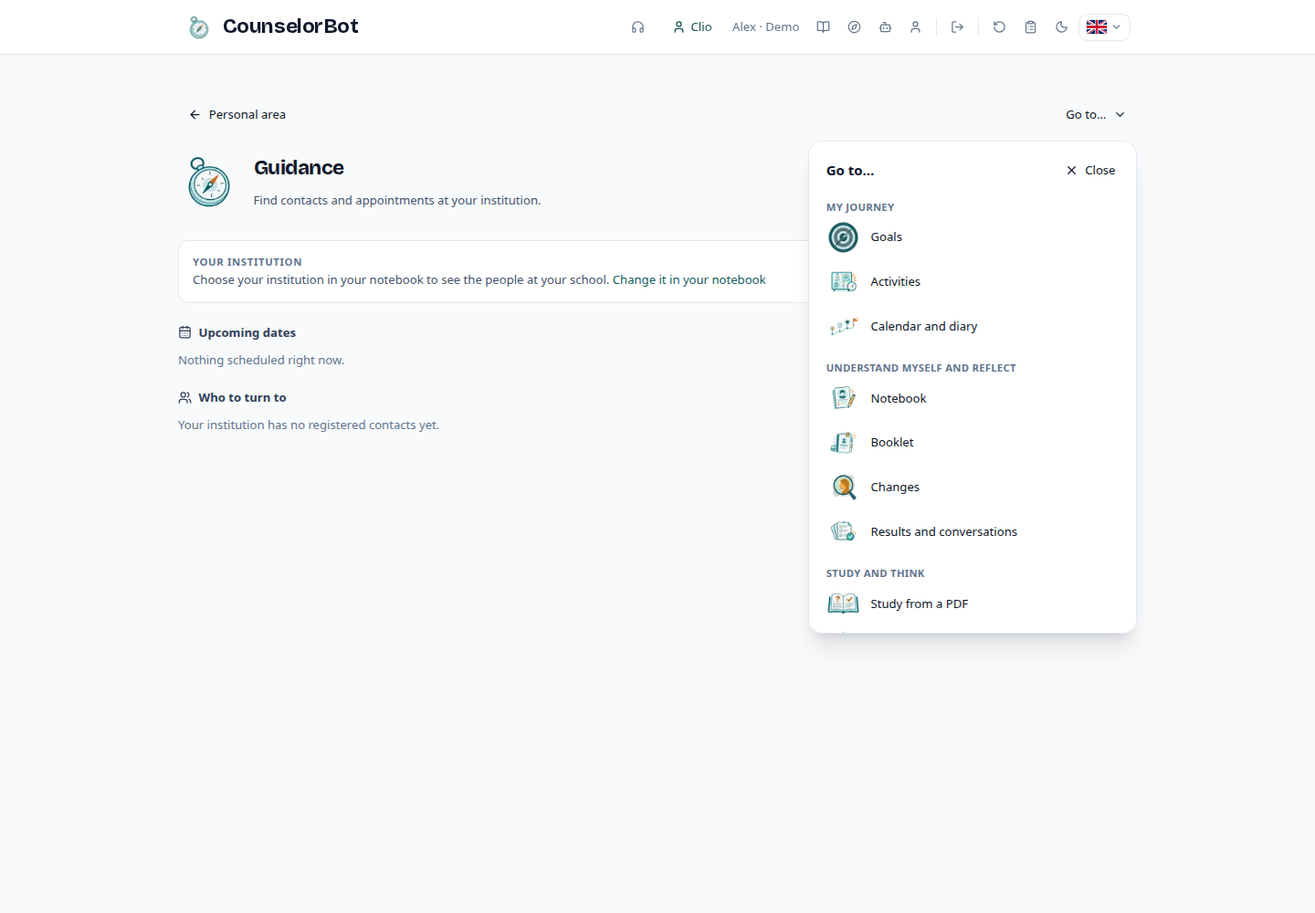
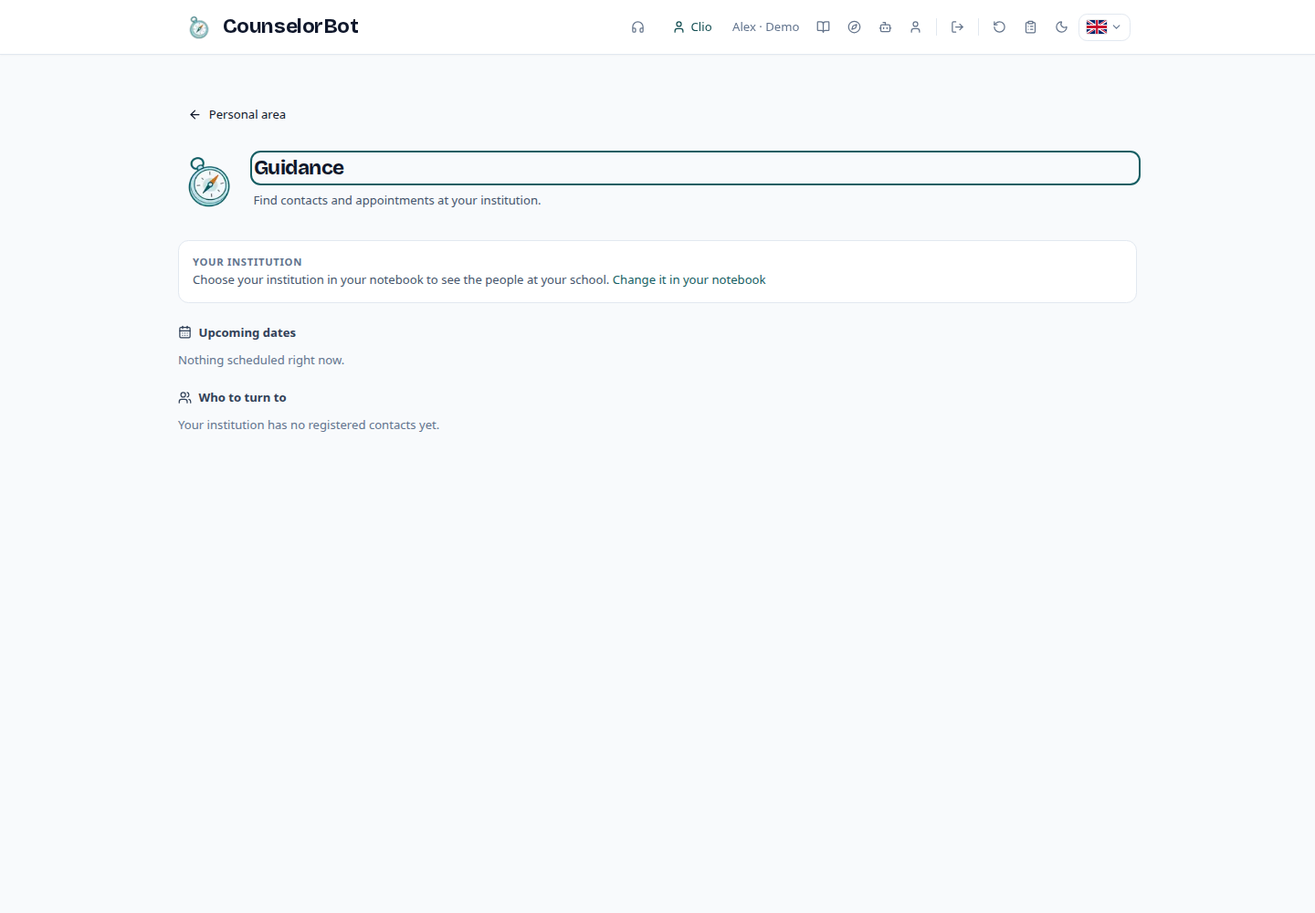
fix: simplify orientation header to left return link

diff --git a/frontend/src/lib/i18n.ts b/frontend/src/lib/i18n.ts
@@ -1265,7 +1265,7 @@ const it: Dict = {
     'guide.section11.title': "Evento significativo professionale",
     'guide.section11.body': "Scegli questo strumento per riflettere su un episodio di lavoro o tirocinio: un compito, una riunione, un colloquio o una lezione che hai tenuto. È adatto anche ad adulti e docenti che rileggono la propria pratica. Segue gli stessi sei passi del percorso di studio, senza questionari, punteggi o diagnosi. La sintesi è una bozza da rivedere e salvare nel Libretto. Questi due percorsi sono distinti dagli eventi che inserisci nel calendario.",
     'guide.section12.title': "Area personale e obiettivi",
-    'guide.section12.body': "L’Area personale mostra fino a tre lavori da riprendere, quando presenti. Seguono cinque gruppi sempre aperti: Il mio percorso, Conoscermi e riflettere, Studiare e ragionare, I miei lavori, Persone e supporto. I 17 collegamenti hanno immagini, nomi e descrizioni: due colonne su desktop, una su telefono. In “Obiettivi” puoi scriverne uno tuo oppure adottare e personalizzare una proposta del catalogo. Collega attività, tappe, carte, confronto, Taccuino, Libretto, Tavoli salvati e lavori del Portfolio. Carte e confronto aiutano a esplorare idee e alternative; il Tavolo raccoglie materiali e lavoro. Completare un’attività non conclude automaticamente un obiettivo: sei tu a rivedere i progressi. Puoi anche studiare da un PDF con domande e feedback (pQBL) e ripassare con le Flashcard. In Orientamento, “Area personale” torna sempre all’ingresso; “Vai a…” apre i cinque gruppi con immagini e nomi. La pagina attuale è indicata e non viene riaperta.",
+    'guide.section12.body': "L’Area personale mostra fino a tre lavori da riprendere, quando presenti. Seguono cinque gruppi sempre aperti: Il mio percorso, Conoscermi e riflettere, Studiare e ragionare, I miei lavori, Persone e supporto. I 17 collegamenti hanno immagini, nomi e descrizioni: due colonne su desktop, una su telefono. In “Obiettivi” puoi scriverne uno tuo oppure adottare e personalizzare una proposta del catalogo. Collega attività, tappe, carte, confronto, Taccuino, Libretto, Tavoli salvati e lavori del Portfolio. Carte e confronto aiutano a esplorare idee e alternative; il Tavolo raccoglie materiali e lavoro. Completare un’attività non conclude automaticamente un obiettivo: sei tu a rivedere i progressi. Puoi anche studiare da un PDF con domande e feedback (pQBL) e ripassare con le Flashcard. In Orientamento, il collegamento “Area personale” a sinistra torna sempre all’ingresso, dove trovi tutti gli strumenti.",
     'guide.section13.title': "Attività, calendario e diario",
     'guide.section13.body': "Nell’Area personale, apri calendario e diario per pianificare un’attività o una tappa, su una data o un periodo, e raccontare poi che cosa è successo. Il piano e la riflessione restano distinti. Le attività create dagli obiettivi o dalle assegnazioni usano questo stesso spazio. Salva esplicitamente le modifiche; il passare di una data non segna un’attività come conclusa. Puoi collegare e documentare il lavoro senza trasferire automaticamente le annotazioni.",
     'guide.section14.title': "Assegnazioni e restituzioni",
@@ -2561,7 +2561,7 @@ const en: Dict = {
     'guide.section11.title': "Significant professional event",
     'guide.section11.body': "Choose this tool to reflect on one work or placement episode: a task, meeting, conversation or lesson you taught. It also suits adults and teachers reflecting on their practice. It follows the same six steps as the study path, without questionnaires, scores or diagnoses. The summary is a draft to review and save in the Booklet. These two paths are distinct from events you add to your calendar.",
     'guide.section12.title': "Personal area and goals",
-    'guide.section12.body': "The Personal area shows up to three items to continue, when available. Five groups follow: My journey, Understand myself and reflect, Study and think, My work, People and support. All groups stay open. The 17 links have images, names and descriptions, in two columns on desktop and one on phones. In “Goals”, write your own or adopt and personalize a catalog proposal. Link activities, milestones, cards, comparison, Notebook, Booklet, saved Tavoli and Portfolio works. Cards and comparison help explore ideas and alternatives; Tavolo brings together materials and work. Completing an activity does not automatically conclude a goal: you review your progress. You can also study from a PDF with questions and feedback (pQBL) and review with Flashcards. In Guidance, “Personal area” always returns to the entry page; “Go to…” opens the five groups with images and names. The current page is marked and is not reopened.",
+    'guide.section12.body': "The Personal area shows up to three items to continue, when available. Five groups follow: My journey, Understand myself and reflect, Study and think, My work, People and support. All groups stay open. The 17 links have images, names and descriptions, in two columns on desktop and one on phones. In “Goals”, write your own or adopt and personalize a catalog proposal. Link activities, milestones, cards, comparison, Notebook, Booklet, saved Tavoli and Portfolio works. Cards and comparison help explore ideas and alternatives; Tavolo brings together materials and work. Completing an activity does not automatically conclude a goal: you review your progress. You can also study from a PDF with questions and feedback (pQBL) and review with Flashcards. In Guidance, the “Personal area” link on the left always returns to the entry page, where you can find all the tools.",
     'guide.section13.title': "Activities, calendar and diary",
     'guide.section13.body': "In the Personal area, open the calendar and diary to plan an activity or milestone on a date or over a period, then describe what happened. The plan and reflection remain distinct. Activities created from goals or assignments use this same workspace. Save changes explicitly; a date passing does not mark an activity complete. You can link and document your work without automatically transferring notes.",
     'guide.section14.title': "Assignments and responses",
@@ -3856,7 +3856,7 @@ const es: Dict = {
     'guide.section11.title': "Evento significativo profesional",
     'guide.section11.body': "Elige esta herramienta para reflexionar sobre un episodio de trabajo o prácticas: una tarea, una reunión, una conversación o una clase que impartiste. También sirve a adultos y docentes que revisan su práctica. Sigue los mismos seis pasos del recorrido de estudio, sin cuestionarios, puntuaciones ni diagnósticos. La síntesis es un borrador para revisar y guardar en el Cuadernillo. Estos dos recorridos son distintos de los eventos que añades al calendario.",
     'guide.section12.title': "Área personal y objetivos",
-    'guide.section12.body': "El Área personal muestra hasta tres trabajos para continuar, cuando los hay. Siguen cinco grupos siempre abiertos: Mi recorrido, Conocerme y reflexionar, Estudiar y razonar, Mis trabajos, Personas y apoyo. Los 17 enlaces tienen imágenes, nombres y descripciones: dos columnas en ordenador y una en móvil. En “Objetivos” puedes escribir uno propio o adoptar y personalizar una propuesta del catálogo. Vincula actividades, hitos, tarjetas, comparación, Cuaderno, Cuadernillo, Tavoli guardados y trabajos del Portfolio. Las tarjetas y la comparación ayudan a explorar ideas y alternativas; Tavolo reúne materiales y trabajo. Completar una actividad no concluye automáticamente un objetivo: tú revisas los progresos. También puedes estudiar con un PDF mediante preguntas y comentarios (pQBL) y repasar con tarjetas. En Orientación, “Área personal” vuelve siempre a la entrada; “Ir a…” abre los cinco grupos con imágenes y nombres. La página actual está indicada y no se vuelve a abrir.",
+    'guide.section12.body': "El Área personal muestra hasta tres trabajos para continuar, cuando los hay. Siguen cinco grupos siempre abiertos: Mi recorrido, Conocerme y reflexionar, Estudiar y razonar, Mis trabajos, Personas y apoyo. Los 17 enlaces tienen imágenes, nombres y descripciones: dos columnas en ordenador y una en móvil. En “Objetivos” puedes escribir uno propio o adoptar y personalizar una propuesta del catálogo. Vincula actividades, hitos, tarjetas, comparación, Cuaderno, Cuadernillo, Tavoli guardados y trabajos del Portfolio. Las tarjetas y la comparación ayudan a explorar ideas y alternativas; Tavolo reúne materiales y trabajo. Completar una actividad no concluye automáticamente un objetivo: tú revisas los progresos. También puedes estudiar con un PDF mediante preguntas y comentarios (pQBL) y repasar con tarjetas. En Orientación, el enlace “Área personal” de la izquierda vuelve siempre a la entrada, donde están todas las herramientas.",
     'guide.section13.title': "Actividades, calendario y diario",
     'guide.section13.body': "En el Área personal, abre el calendario y diario para planificar una actividad o un hito en una fecha o un período y después contar qué sucedió. El plan y la reflexión permanecen separados. Las actividades creadas desde objetivos o asignaciones usan este mismo espacio. Guarda los cambios explícitamente; el paso de una fecha no marca una actividad como terminada. Puedes vincular y documentar el trabajo sin transferir automáticamente las notas.",
     'guide.section14.title': "Asignaciones y respuestas",
@@ -5151,7 +5151,7 @@ const fr: Dict = {
     'guide.section11.title': "Événement professionnel significatif",
     'guide.section11.body': "Choisis cet outil pour réfléchir à un épisode de travail ou de stage : une tâche, une réunion, un échange ou un cours que tu as donné. Il convient aussi aux adultes et aux enseignants qui réfléchissent à leur pratique. Il suit les six étapes du parcours d’étude, sans questionnaire, score ni diagnostic. La synthèse est un brouillon à relire et à enregistrer dans le Livret. Ces deux parcours sont distincts des événements ajoutés au calendrier.",
     'guide.section12.title': "Espace personnel et objectifs",
-    'guide.section12.body': "L’Espace personnel affiche jusqu’à trois travaux à reprendre, lorsqu’il y en a. Cinq groupes restent ouverts : Mon parcours, Me connaître et réfléchir, Étudier et raisonner, Mes travaux, Personnes et accompagnement. Les 17 liens ont une image, un nom et une description : deux colonnes sur ordinateur, une sur téléphone. Dans « Objectifs », écris le tien ou adopte et personnalise une proposition du catalogue. Relie activités, étapes, cartes, comparaison, Carnet, Livret, Tavoli enregistrés et travaux du Portfolio. Les cartes et la comparaison aident à explorer idées et options ; Tavolo rassemble matériaux et travail. Terminer une activité ne conclut pas automatiquement un objectif : tu examines tes progrès. Tu peux aussi étudier à partir d’un PDF avec des questions et des retours (pQBL), puis réviser avec des fiches. Dans Orientation, « Espace personnel » revient toujours à l’entrée ; « Aller à… » ouvre les cinq groupes avec images et noms. La page actuelle est signalée et ne se rouvre pas.",
+    'guide.section12.body': "L’Espace personnel affiche jusqu’à trois travaux à reprendre, lorsqu’il y en a. Cinq groupes restent ouverts : Mon parcours, Me connaître et réfléchir, Étudier et raisonner, Mes travaux, Personnes et accompagnement. Les 17 liens ont une image, un nom et une description : deux colonnes sur ordinateur, une sur téléphone. Dans « Objectifs », écris le tien ou adopte et personnalise une proposition du catalogue. Relie activités, étapes, cartes, comparaison, Carnet, Livret, Tavoli enregistrés et travaux du Portfolio. Les cartes et la comparaison aident à explorer idées et options ; Tavolo rassemble matériaux et travail. Terminer une activité ne conclut pas automatiquement un objectif : tu examines tes progrès. Tu peux aussi étudier à partir d’un PDF avec des questions et des retours (pQBL), puis réviser avec des fiches. Dans Orientation, le lien « Espace personnel » à gauche revient toujours à l’entrée, où se trouvent tous les outils.",
     'guide.section13.title': "Activités, calendrier et journal",
     'guide.section13.body': "Dans l’Espace personnel, ouvre le calendrier et le journal pour planifier une activité ou une étape à une date ou sur une période, puis raconter ce qui s’est passé. Le projet et la réflexion restent distincts. Les activités créées depuis les objectifs ou les attributions utilisent ce même espace. Enregistre explicitement tes modifications ; une date dépassée ne marque pas une activité comme terminée. Tu peux relier et documenter le travail sans transférer automatiquement les notes.",
     'guide.section14.title': "Activités attribuées et réponses",
@@ -6446,7 +6446,7 @@ const de: Dict = {
     'guide.section11.title': "Bedeutsames berufliches Ereignis",
     'guide.section11.body': "Wähle dieses Werkzeug, um eine Arbeits- oder Praktikumssituation zu reflektieren: eine Aufgabe, Besprechung, ein Gespräch oder eine selbst gehaltene Unterrichtsstunde. Es eignet sich auch für Erwachsene und Lehrkräfte, die ihre Praxis reflektieren. Es folgt denselben sechs Schritten wie der Lernweg, ohne Fragebögen, Punktwerte oder Diagnosen. Die Zusammenfassung ist ein Entwurf zum Prüfen und Speichern im Arbeitsheft. Diese beiden Wege unterscheiden sich von den Ereignissen, die du im Kalender einträgst.",
     'guide.section12.title': "Persönlicher Bereich und Ziele",
-    'guide.section12.body': "Der persönliche Bereich zeigt bis zu drei Arbeiten zum Fortsetzen an, sofern vorhanden. Es folgen fünf offene Gruppen: Mein Weg, Mich kennenlernen und reflektieren, Lernen und nachdenken, Meine Arbeiten, Menschen und Unterstützung. Die 17 Links haben Bilder, Namen und Beschreibungen: zwei Spalten am Computer und eine am Smartphone. Unter „Ziele“ schreibst du ein eigenes oder übernimmst und bearbeitest einen Katalogvorschlag. Verknüpfe Aktivitäten, Stationen, Karten, Vergleich, Notizbuch, Arbeitsheft, gespeicherte Tavoli und Portfolio-Arbeiten. Karten und Vergleich helfen beim Erkunden von Ideen und Alternativen; Tavolo bündelt Materialien und Arbeit. Eine abgeschlossene Aktivität schließt nicht automatisch ein Ziel ab: Du prüfst deinen Fortschritt. Du kannst auch mit Fragen und Feedback aus einem PDF lernen (pQBL) und mit Karteikarten wiederholen. In Orientierung führt „Persönlicher Bereich“ immer zur Einstiegsseite; „Gehe zu…“ öffnet die fünf Gruppen mit Bildern und Namen. Die aktuelle Seite ist gekennzeichnet und wird nicht erneut geöffnet.",
+    'guide.section12.body': "Der persönliche Bereich zeigt bis zu drei Arbeiten zum Fortsetzen an, sofern vorhanden. Es folgen fünf offene Gruppen: Mein Weg, Mich kennenlernen und reflektieren, Lernen und nachdenken, Meine Arbeiten, Menschen und Unterstützung. Die 17 Links haben Bilder, Namen und Beschreibungen: zwei Spalten am Computer und eine am Smartphone. Unter „Ziele“ schreibst du ein eigenes oder übernimmst und bearbeitest einen Katalogvorschlag. Verknüpfe Aktivitäten, Stationen, Karten, Vergleich, Notizbuch, Arbeitsheft, gespeicherte Tavoli und Portfolio-Arbeiten. Karten und Vergleich helfen beim Erkunden von Ideen und Alternativen; Tavolo bündelt Materialien und Arbeit. Eine abgeschlossene Aktivität schließt nicht automatisch ein Ziel ab: Du prüfst deinen Fortschritt. Du kannst auch mit Fragen und Feedback aus einem PDF lernen (pQBL) und mit Karteikarten wiederholen. In Orientierung führt der Link „Persönlicher Bereich“ links immer zur Einstiegsseite mit allen Werkzeugen.",
     'guide.section13.title': "Aktivitäten, Kalender und Tagebuch",
     'guide.section13.body': "Öffne im persönlichen Bereich Kalender und Tagebuch, um eine Aktivität oder Station für einen Tag oder Zeitraum zu planen und später zu beschreiben, was passiert ist. Planung und Reflexion bleiben getrennt. Aktivitäten aus Zielen oder Zuweisungen nutzen denselben Arbeitsbereich. Speichere Änderungen ausdrücklich; ein vergangenes Datum markiert eine Aktivität nicht als abgeschlossen. Du kannst Arbeit verknüpfen und dokumentieren, ohne Notizen automatisch zu übertragen.",
     'guide.section14.title': "Zuweisungen und Antworten",
@@ -7741,7 +7741,7 @@ const sv: Dict = {
     'guide.section11.title': "Betydelsefull professionell händelse",
     'guide.section11.body': "Välj verktyget för att reflektera över en arbets- eller praktiksituation: en uppgift, ett möte, ett samtal eller en lektion du undervisat. Det passar också vuxna och lärare som reflekterar över sin praktik. Det följer samma sex steg som studievägen, utan frågeformulär, poäng eller diagnoser. Sammanfattningen är ett utkast att granska och spara i arbetshäftet. Dessa två vägar är skilda från händelser som du lägger till i kalendern.",
     'guide.section12.title': "Personligt område och mål",
-    'guide.section12.body': "Den personliga sidan visar upp till tre arbeten att fortsätta med, när sådana finns. Därefter följer fem öppna grupper: Min väg, Lära känna mig själv och reflektera, Studera och resonera, Mina arbeten, Personer och stöd. De 17 länkarna har bilder, namn och beskrivningar: två kolumner på dator och en på telefon. Under ”Mål” skriver du ett eget eller antar och anpassar ett katalogförslag. Koppla aktiviteter, milstolpar, kort, jämförelse, anteckningsbok, arbetshäfte, sparade Tavoli och Portfolio-arbeten. Kort och jämförelse hjälper dig att utforska idéer och alternativ; Tavolo samlar material och arbete. En genomförd aktivitet avslutar inte automatiskt ett mål: du granskar dina framsteg. Du kan också studera med en PDF genom frågor och återkoppling (pQBL) och repetera med frågekort. I Vägledning går ”Personlig sida” alltid till startsidan för ditt arbete; ”Gå till…” öppnar de fem grupperna med bilder och namn. Den aktuella sidan är markerad och öppnas inte igen.",
+    'guide.section12.body': "Den personliga sidan visar upp till tre arbeten att fortsätta med, när sådana finns. Därefter följer fem öppna grupper: Min väg, Lära känna mig själv och reflektera, Studera och resonera, Mina arbeten, Personer och stöd. De 17 länkarna har bilder, namn och beskrivningar: två kolumner på dator och en på telefon. Under ”Mål” skriver du ett eget eller antar och anpassar ett katalogförslag. Koppla aktiviteter, milstolpar, kort, jämförelse, anteckningsbok, arbetshäfte, sparade Tavoli och Portfolio-arbeten. Kort och jämförelse hjälper dig att utforska idéer och alternativ; Tavolo samlar material och arbete. En genomförd aktivitet avslutar inte automatiskt ett mål: du granskar dina framsteg. Du kan också studera med en PDF genom frågor och återkoppling (pQBL) och repetera med frågekort. I Vägledning går länken ”Personlig sida” till vänster alltid till startsidan för ditt arbete, där alla verktyg finns.",
     'guide.section13.title': "Aktiviteter, kalender och dagbok",
     'guide.section13.body': "Öppna kalendern och dagboken i det personliga området för att planera en aktivitet eller milstolpe på ett datum eller under en period och sedan berätta vad som hände. Planering och reflektion förblir skilda. Aktiviteter som skapas från mål eller tilldelningar använder samma arbetsyta. Spara ändringar uttryckligen; ett passerat datum markerar inte en aktivitet som avslutad. Du kan koppla och dokumentera arbetet utan att anteckningar överförs automatiskt.",
     'guide.section14.title': "Tilldelningar och svar",

diff --git a/frontend/src/components/profile/PersonalAreaHeader.tsx b/frontend/src/components/profile/PersonalAreaHeader.tsx
@@ -1,78 +1,26 @@
 'use client';
 
-import { useEffect, useId, useRef, useState } from 'react';
+import { useEffect, useRef } from 'react';
 import Image from 'next/image';
 import Link from 'next/link';
-import { ArrowLeft, ChevronDown, X } from 'lucide-react';
+import { ArrowLeft } from 'lucide-react';
 import { useI18n } from '@/lib/i18n-context';
 import { personalAreaDescription, personalAreaName, personalAreaText } from '@/lib/i18n-personal-area';
-import { personalAreaGroups, personalAreaImages, type PersonalAreaSlug } from '@/lib/personal-area';
+import { personalAreaImages, type PersonalAreaSlug } from '@/lib/personal-area';
 
 // First used by Orientamento. Editable pages need their exit guards before adoption.
 export function PersonalAreaHeader({ slug }: { slug: PersonalAreaSlug }) {
     const { lang } = useI18n();
-    const [open, setOpen] = useState(false);
-    const wrapper = useRef<HTMLDivElement>(null);
-    const trigger = useRef<HTMLButtonElement>(null);
-    const closeButton = useRef<HTMLButtonElement>(null);
     const heading = useRef<HTMLHeadingElement>(null);
-    const panelId = useId();
     const l = (key: Parameters<typeof personalAreaText>[1]) => personalAreaText(lang, key);
-    const control = 'inline-flex min-h-11 items-center gap-2 rounded-lg px-3 text-sm font-medium hover:bg-slate-100 focus-visible:outline-2 focus-visible:outline-offset-2 focus-visible:outline-cyan-600 dark:hover:bg-slate-800';
+    const control = 'inline-flex min-h-[44px] items-center gap-2 rounded-lg px-3 text-sm font-medium hover:bg-slate-100 focus-visible:outline-2 focus-visible:outline-offset-2 focus-visible:outline-cyan-600 dark:hover:bg-slate-800';
 
     useEffect(() => { heading.current?.focus({ preventScroll: true }); }, [slug]);
-    useEffect(() => {
-        if (!open) return;
-        closeButton.current?.focus({ preventScroll: true });
-        const onKey = (event: KeyboardEvent) => {
-            if (event.key === 'Escape') {
-                event.preventDefault();
-                setOpen(false);
-                trigger.current?.focus({ preventScroll: true });
-            }
-        };
-        const onPointer = (event: PointerEvent) => {
-            if (event.target instanceof Node && !wrapper.current?.contains(event.target)) setOpen(false);
-        };
-        document.addEventListener('keydown', onKey);
-        document.addEventListener('pointerdown', onPointer);
-        return () => {
-            document.removeEventListener('keydown', onKey);
-            document.removeEventListener('pointerdown', onPointer);
-        };
-    }, [open]);
 
     return (
         <header data-personal-area-header className="space-y-5">
-            <div ref={wrapper} className="relative flex items-center justify-between gap-2" onBlur={event => {
-                if (event.relatedTarget instanceof Node && !event.currentTarget.contains(event.relatedTarget)) setOpen(false);
-            }}>
+            <div className="flex items-center">
                 <Link href="/profilo" className={control}><ArrowLeft className="h-4 w-4 shrink-0" aria-hidden />{l('title')}</Link>
-                <button ref={trigger} type="button" className={control} aria-expanded={open} aria-controls={panelId} onClick={() => setOpen(value => !value)}>
-                    {l('goTo')}<ChevronDown className="h-4 w-4 shrink-0" aria-hidden />
-                </button>
-                {open && <nav id={panelId} aria-label={l('goTo')} onBlur={event => {
-                    if (event.relatedTarget instanceof Node && event.relatedTarget !== trigger.current && !event.currentTarget.contains(event.relatedTarget)) setOpen(false);
-                }} className="absolute inset-x-0 top-full z-40 mt-2 max-h-[min(65dvh,calc(100dvh-12rem),36rem)] overflow-y-auto overscroll-contain rounded-xl border border-slate-200 bg-white p-3 shadow-xl sm:left-auto sm:w-96 dark:border-slate-700 dark:bg-slate-900">
-                    <div className="mb-3 flex items-center justify-between gap-2">
-                        <h2 className="px-2 font-semibold">{l('goTo')}</h2>
-                        <button ref={closeButton} type="button" className={control} onClick={() => { setOpen(false); trigger.current?.focus({ preventScroll: true }); }}>
-                            <X className="h-4 w-4" aria-hidden />{l('close')}
-                        </button>
-                    </div>
-                    {personalAreaGroups.map(group => <section key={group.id} className="mb-4 last:mb-0">
-                        <h3 className="mb-1 px-2 text-xs font-semibold uppercase tracking-wide text-slate-500 dark:text-slate-400">{l(group.id)}</h3>
-                        <ul className="space-y-1">
-                            {group.slugs.map(destination => {
-                                const content = <><Image src={personalAreaImages[destination]} alt="" width={40} height={40} className="h-10 w-10 shrink-0 object-contain" /><span className="min-w-0">{personalAreaName(lang, destination)}{destination === slug && <span className="block text-xs font-normal text-slate-600 dark:text-slate-300">{l('currentPage')}</span>}</span></>;
-                                const row = 'flex min-h-12 items-center gap-3 rounded-lg px-2 py-1 text-sm';
-                                return <li key={destination}>{destination === slug
-                                    ? <span aria-current="page" className={`${row} bg-slate-100 font-semibold dark:bg-slate-800`}>{content}</span>
-                                    : <Link prefetch={false} href={`/profilo/${destination}`} className={`${row} hover:bg-slate-100 focus-visible:outline-2 focus-visible:outline-cyan-600 dark:hover:bg-slate-800`}>{content}</Link>}</li>;
-                            })}
-                        </ul>
-                    </section>)}
-                </nav>}
             </div>
             <div className="grid grid-cols-[4rem_1fr] items-center gap-x-4 gap-y-3 sm:grid-cols-[4.5rem_1fr]">
                 <Image src={personalAreaImages[slug]} alt="" width={72} height={72} className="h-16 w-16 object-contain sm:row-span-2 sm:h-18 sm:w-18" />

diff --git a/frontend/src/lib/i18n-personal-area.ts b/frontend/src/lib/i18n-personal-area.ts
@@ -4,9 +4,6 @@ import type { PersonalAreaSlug } from './personal-area';
 type Localized = readonly [string, string, string, string, string, string];
 const languages: readonly Lang[] = ['it', 'en', 'es', 'fr', 'de', 'sv'];
 const labels = {
-    goTo: ['Vai a…', 'Go to…', 'Ir a…', 'Aller à…', 'Gehe zu…', 'Gå till…'],
-    close: ['Chiudi', 'Close', 'Cerrar', 'Fermer', 'Schließen', 'Stäng'],
-    currentPage: ['Pagina attuale', 'Current page', 'Página actual', 'Page actuelle', 'Aktuelle Seite', 'Aktuell sida'],
     title: ['Area personale', 'Personal area', 'Área personal', 'Espace personnel', 'Persönlicher Bereich', 'Personlig sida'],
     intro: ['Ritrova il tuo lavoro e scegli come proseguire.', 'Find your work and choose how to continue.', 'Encuentra tu trabajo y elige cómo continuar.', 'Retrouve ton travail et choisis comment continuer.', 'Finde deine Arbeit wieder und entscheide, wie es weitergeht.', 'Hitta ditt arbete och välj hur du vill fortsätta.'],
     journey: ['Il mio percorso', 'My journey', 'Mi recorrido', 'Mon parcours', 'Mein Weg', 'Min väg'],

diff --git a/docs/plans/2026-09-23-area-personale-audit-piano-ux.md b/docs/plans/2026-09-23-area-personale-audit-piano-ux.md
@@ -192,6 +192,23 @@ Usare le **immagini già disponibili e il nome** per riconoscere gli strumenti, 
 
 ### Testata e navigazione comune — punto 0.3
 
+**Revisione successiva alla prova nel tunnel:** l’utente richiede di eliminare
+«Vai a…» a destra e mantenere soltanto «Area personale» a sinistra. Questa
+indicazione sostituisce il pannello descritto nello schema storico qui sotto.
+La nuova testata conserva immagine, titolo e descrizione. L’utente conferma «Metodo di studio» e richiede di sostituire «Scelta del
+percorso» con categorie coerenti con il riferimento a Pellerey e Savickas.
+Proposta in esame: Metodo di studio; Conoscere le mie risorse; Rileggere le mie
+esperienze; Esplorare possibilità; Progettare i prossimi passi. Resta da chiarire
+se saranno filtri della rubrica di contatti/appuntamenti oppure sezioni operative
+del percorso personale. La tassonomia non è stata modificata nell’attesa.
+
+```text
+← Area personale
+
+[immagine] Orientamento
+           Descrizione della pagina
+```
+
 **Stato: struttura approvata; implementazione pilota in Orientamento, in anteprima di sviluppo.** La struttura si applica alle sottopagine dell’Area personale. L’ingresso `/profilo`, appena approvato e pubblicato, conserva i cinque gruppi e non riceve un secondo elenco di navigazione. La testata globale con account, lingua e altre azioni conserva le funzioni attuali.
 
 #### Problema verificato nel codice corrente
@@ -1055,3 +1072,14 @@ Verifiche:
 - Immagine frontend Docker ricostruita. Il container di produzione resta alla
   versione precedente durante la revisione della preview; stato del container
   verificato attivo. Nessuna modifica a volumi o dati persistenti.
+
+### Revisione del pilota dopo il riscontro dell’utente
+
+Rimosso «Vai a…» con relativo pannello e traduzioni non più usate. Resta il
+collegamento a sinistra all’Area personale, con area attivabile di almeno 44 px.
+Guida e sei schermate aggiornate. Sette test browser superati nelle sei lingue,
+a 320/390/1440 px e in orizzontale; TypeScript, i18n, ESLint e controllo della
+documentazione superati. Verifica pubblica nel tunnel: un solo collegamento
+nella testata e nessun pulsante. Immagine Docker ricostruita; produzione ancora
+alla versione precedente. La nuova articolazione delle categorie è in attesa
+della distinzione funzionale riportata nel punto 0.3.

diff --git a/CONTEXT.md b/CONTEXT.md
@@ -55,7 +55,7 @@ CounselorBot is an AI-powered web app that helps students analyze learning/caree
 
 ### Core Concepts
 
-- **Personal-area entry**: `/profilo` has five always-open groups and 17 illustrated links, with two columns on desktop and one on mobile (`PersonalAreaHome`, `personal-area.ts`, six-language `i18n-personal-area.ts`). The independent overview lists at most three existing goals/activities/assignments and retains data with retry on partial failure; it does not load questionnaire results. Activity links use `/profilo/azioni#action-ID` and focus the matching activity after loading. The Orientamento pilot uses `PersonalAreaHeader`: a real `/profilo` link and a grouped illustrated navigation panel; other subpages retain their headers until their exit guards are reviewed.
+- **Personal-area entry**: `/profilo` has five always-open groups and 17 illustrated links, with two columns on desktop and one on mobile (`PersonalAreaHome`, `personal-area.ts`, six-language `i18n-personal-area.ts`). The independent overview lists at most three existing goals/activities/assignments and retains data with retry on partial failure; it does not load questionnaire results. Activity links use `/profilo/azioni#action-ID` and focus the matching activity after loading. The Orientamento pilot uses `PersonalAreaHeader`: only a left-aligned `/profilo` link (the navigation panel was removed after user review); other subpages retain their headers until their exit guards are reviewed.
 
 - **Chat format and essential QSA**: all web chat surfaces offer conversational, bullet or table presentation independently of response length. Only QSA guided chat offers a three-reply essential path (focus, example, action, summary); QSAr and other instruments keep their existing paths. Format and path survive frozen-session resume. See `docs/operations/chat-format-essential-qsa.md` for API contracts, persistence and verification.
 

diff --git a/docs/design.md b/docs/design.md
@@ -240,11 +240,9 @@ il titolo di pagina a `text-2xl font-bold`; non si inventano altre scale.
   con proporzioni conservate, a sinistra del testo. Portfolio ha la propria
   sezione; Cambiamenti è una voce autonoma. Il riepilogo gestisce localmente
   caricamento ed errore, senza bloccare gli accessi.
-- **Testata personale (pilota Orientamento)**: collegamento esplicito a `/profilo`,
-  pulsante «Vai a…» con pannello sovrapposto a cinque gruppi e 17 immagini/nomi;
-  pagina corrente non navigabile. Focus iniziale sulla chiusura, Escape con
-  ritorno al pulsante, chiusura all’uscita del focus e al click esterno.
-  Titolo con immagine esistente; descrizione sotto su mobile. Le pagine con
+- **Testata personale (pilota Orientamento)**: solo il collegamento «Area personale»
+  a sinistra, diretto a `/profilo`; nessun pannello «Vai a…» a destra.
+  Titolo con immagine esistente e descrizione sotto su mobile. Le pagine con
   bozze richiedono verifica delle guardie di uscita prima dell’adozione.
 - **Salvataggio automatico**: lavora in background, senza spinner, messaggi di
   attesa o conferme che cambiano l'ingombro della pagina. Gli errori restano

diff --git a/docs-counselorbot/funzionalita-counselorbot.md b/docs-counselorbot/funzionalita-counselorbot.md
@@ -103,12 +103,10 @@ lavori. Il progresso PDF, invece, è locale al browser.
 ## Area personale e strumenti
 
 **Anteprima di sviluppo, non ancora distribuita nel frontend di produzione:**
-nella pagina **Orientamento**, la nuova testata offre un collegamento **Area personale**
-sempre diretto all’ingresso e un pannello **Vai a…** con i cinque gruppi e tutti
-i 17 strumenti, riconoscibili dalle immagini esistenti e dai nomi. La pagina
-attuale è segnalata e non viene riaperta. Chiudere il pannello conserva i filtri;
-Escape riporta il focus al pulsante. Questa testata è per ora applicata soltanto
-a Orientamento; le altre sottopagine saranno riviste separatamente.
+nella pagina **Orientamento**, la nuova testata mantiene a sinistra il collegamento
+**Area personale**, sempre diretto all’ingresso. Sotto compaiono l’immagine
+esistente, il titolo e la descrizione. Il pannello «Vai a…» è stato rimosso
+su richiesta dell’utente. Le altre sottopagine saranno riviste separatamente.
 
 L’Area personale (`/profilo`) apre con **Da riprendere**, solo quando ci sono
 lavori pertinenti: al massimo tre attività collegate a obiettivi attivi, obiettivi

diff --git a/docs/operations/personal-area-dev-preview.md b/docs/operations/personal-area-dev-preview.md
@@ -37,6 +37,6 @@ GUIDE_BASE_URL=http://127.0.0.1:3108 GUIDE_SCREENS=orientation node --experiment
 ```
 
 I test coprono le sei lingue, 320/390/1440 px, mobile orizzontale, temi chiaro/scuro,
-focus e tastiera, destinazioni, filtri, parametri URL e isolamento delle API.
+ritorno a sinistra, assenza del pannello di navigazione, parametri URL e isolamento delle API.
 Il rebuild dell’immagine Docker può essere eseguito senza sostituire il container
 di produzione durante la revisione della preview: `docker compose build frontend`.
